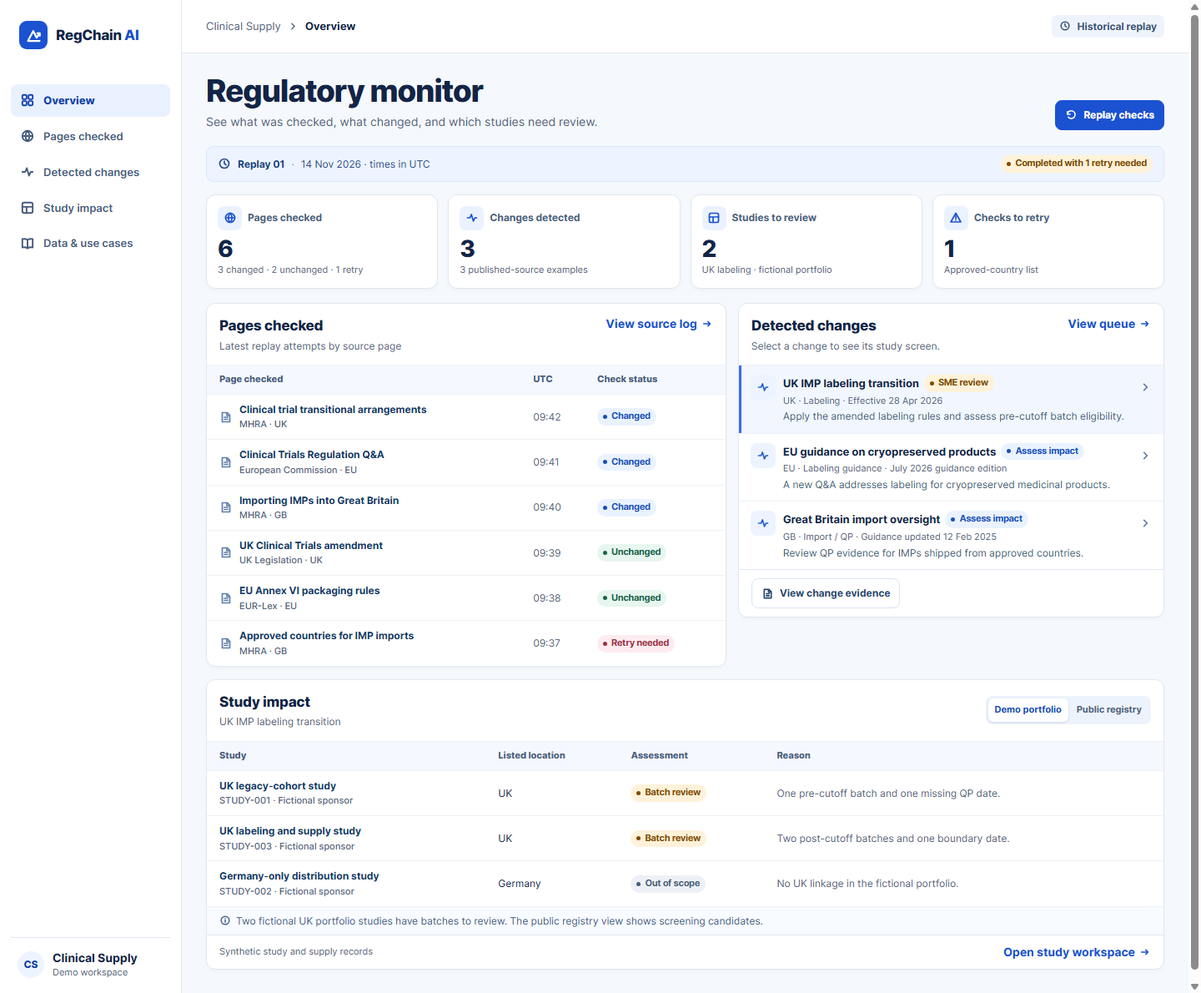
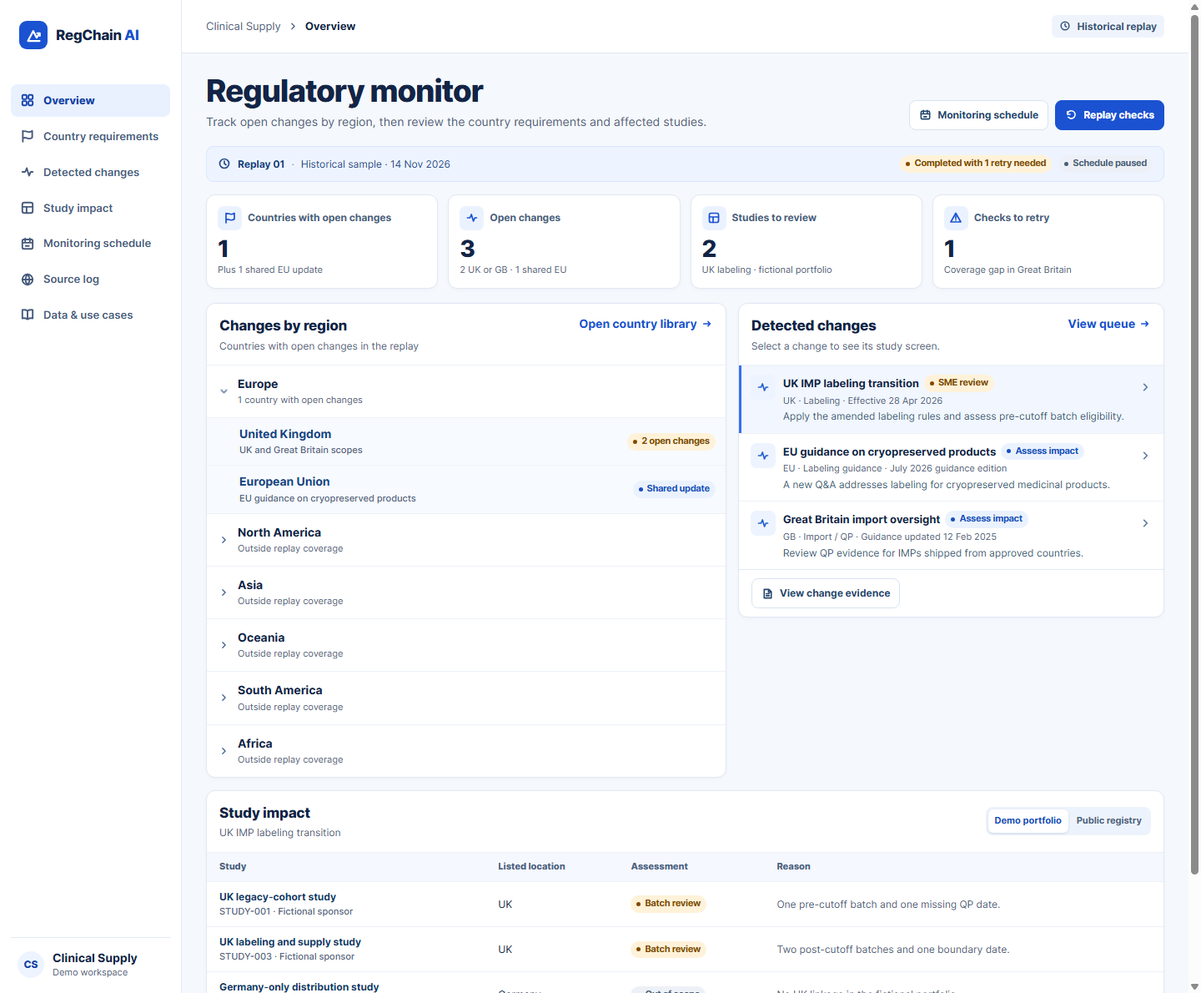
Add country requirements and monitoring schedule
Group open changes by continent, add a source-linked country requirements library, and add configurable scheduling for the browser replay. Update the research notes and dashboard screenshot.

diff --git a/RegChain-AI-Dashboard.html b/RegChain-AI-Dashboard.html
@@ -25,6 +25,8 @@ svg{width:18px;height:18px;fill:none;stroke:currentColor;stroke-width:1.7;stroke
 @media(max-width:1120px){.shell{grid-template-columns:171px minmax(0,1fr)}.content,.top{padding-left:19px;padding-right:19px}.table-wrap .hide-narrow{display:none}}
 @media(max-width:900px){.shell{display:block}.rail{position:static;height:auto;padding:11px 13px;gap:9px;border-right:0;border-bottom:1px solid var(--line)}.rail nav{display:flex;flex-wrap:wrap}.brand{margin:0;padding:0}.nav{width:auto;padding:7px 8px}.rail-foot{display:none}.layout{grid-template-columns:minmax(0,1fr)}}
 @media(max-width:560px){.content,.top{padding-left:12px;padding-right:12px}.content{padding-top:17px}.top{min-height:54px}.tiles{grid-template-columns:repeat(2,minmax(0,1fr));gap:8px}.tile{padding:9px}.card-head{padding:11px}.card-foot{padding:9px 11px}.resource-grid{grid-template-columns:1fr}.study-tabs{max-width:100%;flex-wrap:wrap}}
+.region-list{display:grid}.region{border-top:1px solid #edf1f7}.region summary{cursor:pointer;list-style:none;display:flex;align-items:center;gap:10px;padding:12px 14px}.region summary::-webkit-details-marker{display:none}.region summary:hover{background:#f5f9ff}.region summary>svg:first-child{width:13px;color:#496795}.region[open] summary>svg:first-child{transform:rotate(90deg)}.region-label{min-width:0;flex:1}.region-label strong,.region-label small{display:block}.region-label small{color:var(--muted);font-size:11px;margin-top:2px}.region-child{display:flex;justify-content:space-between;gap:9px;padding:9px 12px 9px 39px;background:#f7faff;border-top:1px solid #eef2f9;align-items:center}.region-child .badge{flex:none}.country-control{border:0;color:#174485;background:none;padding:0;text-align:left;font-weight:700}.country-control:hover{text-decoration:underline}.country-row{display:flex;gap:10px;align-items:center;padding:11px 13px;width:100%;text-align:left;border:0;border-top:1px solid #edf1f7;background:white;color:var(--ink)}.country-row:hover,.country-row[aria-pressed=true]{background:#edf4ff}.country-row>span:first-child{flex:1}.country-row svg{width:13px;color:#496795}.library-layout{display:grid;grid-template-columns:minmax(230px,.62fr) minmax(0,1.38fr);gap:14px;align-items:start}.library-layout .card-head input{width:100%}.section-label{font-size:12px;color:var(--muted);font-weight:750;padding:8px 13px;background:#f5f8fc;border-top:1px solid var(--line)}.req-list{padding:0 14px 4px}.req-row{width:100%;display:flex;justify-content:space-between;gap:12px;align-items:center;background:white;border:0;border-top:1px solid #edf1f7;padding:11px 0;color:var(--ink);text-align:left}.req-row:hover strong{color:var(--blue);text-decoration:underline}.req-row svg{color:#5b76a0;width:14px}.req-row>span:first-child{flex:1}.req-row strong{display:block}.settings{padding:0 15px 15px}.settings form{display:grid;gap:13px}.settings .field input{width:96px}.settings label.toggle{display:flex;gap:8px;align-items:center;font-weight:700}.settings .inline-note{margin-top:14px;border:0;border-radius:8px;padding:9px}.settings .actions{margin-top:4px}.small-action{font-size:12px;font-weight:700}.nowrap-badge{text-align:right}
+@media(max-width:760px){.library-layout{grid-template-columns:minmax(0,1fr)}}
 @media(prefers-reduced-motion:reduce){*{transition:none!important}}
 </style>
 </head>
@@ -40,7 +42,7 @@ const replayDate = "14 Nov 2026";
 const registryCredit = "ClinicalTrials.gov, U.S. National Library of Medicine · accessed 14 Nov 2026";
 const sources = [
  {id:"transition",title:"Clinical trial transitional arrangements",authority:"MHRA",scope:"UK",type:"Guidance",path:"GOV.UK / Clinical trials / Transition",checked:"09:42",status:"Changed",tone:"blue",edition:"15 Jul 2026",section:"Part 7 labeling transition and finished-IMP QP certification",result:"Compared against the legacy labeling baseline. A conditional transition and the date basis for batch triage are in the reviewed evidence.",url:"https://www.gov.uk/guidance/clinical-trials-for-medicines-clinical-trials-regulations-transitional-arrangements#transitional-arrangements-for-labelling-of-investigational-medicinal-products",change:"uk"},
- {id:"qa",title:"Clinical Trials Regulation Q&A",authority:"European Commission",scope:"EU",type:"Guidance PDF",path:"EudraLex / Volume 10 / July 2026 Q&A",checked:"09:41",status:"Changed",tone:"blue",edition:"July 2026 edition",section:"Revision history and new Q&A 8.4",result:"The July revision history identifies a new question about labeling cryopreserved medicinal products. This is a historical guidance example.",url:"https://health.ec.europa.eu/document/download/4ec3992a-ef9b-41f9-8e34-1dd6d0a479ae_en?filename=mp_ctr_qa_rules.pdf",change:"eu"},
+ {id:"qa",title:"Clinical Trials Regulation Q&A",authority:"European Commission",scope:"EU",type:"Guidance PDF",path:"EudraLex / Volume 10 / CTR Q&A",checked:"09:41",status:"Changed",tone:"blue",edition:"July 2026 change · linked PDF can advance",section:"Q&A 8.4",result:"The July 2026 revision introduced Q&A 8.4 on cryopreserved product labeling. The linked Commission PDF now serves a later edition that retains the question.",url:"https://health.ec.europa.eu/document/download/4ec3992a-ef9b-41f9-8e34-1dd6d0a479ae_en?filename=mp_ctr_qa_rules.pdf",change:"eu"},
  {id:"imports",title:"Importing IMPs into Great Britain",authority:"MHRA",scope:"GB",type:"Guidance",path:"GOV.UK / Importing IMPs / Updated guidance",checked:"09:40",status:"Changed",tone:"blue",edition:"12 Feb 2025",section:"Publication change log and QP certification for approved-country imports",result:"The published update notice describes changes reflecting implementation of the EU Clinical Trials Regulation for EU QP certification.",url:"https://www.gov.uk/government/publications/importing-investigational-medicinal-products-into-great-britain-from-approved-countries",change:"import"},
  {id:"statute",title:"UK Clinical Trials amendment",authority:"UK Legislation",scope:"UK",type:"Statutory instrument",path:"legislation.gov.uk / S.I. 2025/538",checked:"09:39",status:"Unchanged",tone:"green",edition:"2025 instrument",section:"Regulation 32 and inserted Schedule 14 paragraph 6",result:"The replay keeps the same statutory reference on this check. The instrument supplies supporting evidence for the UK labeling case.",url:"https://www.legislation.gov.uk/uksi/2025/538/pdfs/uksi_20250538_en.pdf",change:"uk"},
  {id:"annex",title:"EU Annex VI packaging rules",authority:"EUR-Lex",scope:"EU",type:"Delegated regulation",path:"EUR-Lex / Delegated Regulation 2022/2239",checked:"09:38",status:"Unchanged",tone:"green",edition:"15 Nov 2022 · Official Journal",section:"Annex, entries B.6.2 and B.6.3",result:"The stored comparison is unchanged. The historical amendment is an additional use case for assessing eligible immediate-packaging configurations.",url:"https://eur-lex.europa.eu/eli/reg_del/2022/2239/oj/eng"},
@@ -66,6 +68,26 @@ const resources = [
  {name:"EMA CTIS public portal",text:"EU and EEA trial searches, EU trial numbers and public trial information. Use explicit registry identifiers to link records.",url:"https://www.ema.europa.eu/en/human-regulatory-overview/research-development/clinical-trials-human-medicines/clinical-trials-information-system-ctis"},
  {name:"AACT database",text:"Relational ClinicalTrials.gov data for SQL queries and bulk snapshots. AACT is a mirror of the registry.",url:"https://aact.ctti-clinicaltrials.org/landing"}
 ];
+const regions = ["Europe","North America","Asia","Oceania","South America","Africa"];
+const countries = [
+ {id:"uk",name:"United Kingdom",region:"Europe",changes:["uk","import"]},
+ {id:"de",name:"Germany",region:"Europe",shared:["eu"]},
+ {id:"fr",name:"France",region:"Europe",shared:["eu"]},
+ {id:"us",name:"United States",region:"North America"},
+ {id:"jp",name:"Japan",region:"Asia"},
+ {id:"au",name:"Australia",region:"Oceania"},
+ {id:"br",name:"Brazil",region:"South America"},
+ {id:"za",name:"South Africa",region:"Africa"}
+];
+const topics = ["Labeling & packaging","Import & customs","Release & certification","Storage & distribution","Returns & destruction","Permits & authorizations","Documentation","Controlled products"];
+const requirements = [
+ {id:"uk-label",scope:"UK",country:"uk",topic:topics[0],title:"IMP labeling under amended Part 7",basis:"UK regulation",when:"28 Apr 2026",status:"Example baseline",summary:"Use the amended Part 7 requirements for investigational medicinal products where applicable. Confirm the product and trial scope and any applicable authorization, variation or exception.",locator:"Regulation 32, substituting Part 7",source:"statute",related:"uk"},
+ {id:"uk-transition",scope:"UK",country:"uk",topic:topics[0],title:"Transitional labeling for qualifying batches",basis:"UK regulation with MHRA guidance",when:"28 Apr 2026",status:"Example baseline",summary:"The earlier rules can continue for qualifying batches made before the relevant day, labeled under the old rules and used in their intended old-rules trials. The MHRA guidance uses finished-IMP QP certification as the manufacturing date for this assessment.",locator:"Schedule 14, paragraph 6 and MHRA transition guidance",source:"transition",related:"uk"},
+ {id:"gb-import",scope:"Great Britain",country:"uk",topic:topics[1],title:"Approved-country import oversight",basis:"MHRA guidance",when:"Guidance edition · 12 Feb 2025",status:"Example baseline",summary:"For the approved-country import route, verify the UK import authorization holder and the mechanism for checking certification by a qualified person in an approved country.",locator:"GOV.UK import guidance and approved-country list",source:"imports",related:"import"},
+ {id:"eu-pack",scope:"EU",shared:true,topic:topics[0],title:"Immediate packaging and expiry or retest dates",basis:"EU delegated regulation",when:"In force from 5 Dec 2022",status:"Shared EU baseline",summary:"Annex VI allows the period of use to be omitted from the immediate package in specified configurations. Verify the packaging conditions and the other particulars required by Annex VI.",locator:"Delegated Regulation (EU) 2022/2239, Annex, B.6.2 and B.6.3",source:"annex",related:"eu"},
+ {id:"us-label",scope:"United States",country:"us",topic:topics[0],title:"Investigational new drug labeling",basis:"U.S. federal regulation",when:"Current eCFR section",status:"Example baseline",summary:"21 CFR 312.6 sets the investigational-use statement for immediate packages of investigational new drugs for human use and addresses misleading or unsupported labeling claims. The section also specifies a limited exception process.",locator:"21 CFR § 312.6",url:"https://www.ecfr.gov/current/title-21/chapter-I/subchapter-D/part-312/subpart-A/section-312.6"},
+ {id:"us-import",scope:"United States",country:"us",topic:topics[1],title:"Importing investigational new drugs",basis:"FDA guidance page",when:"See linked FDA source",status:"Example baseline",summary:"FDA describes the IND, U.S. consignee and labeling evidence for imports under an active IND. Check applicability and exemptions against the governing provisions.",locator:"FDA, Importing Investigational New Drugs",url:"https://www.fda.gov/drugs/human-drug-imports/importing-investigational-new-drugs"}
+];
 </script>
 <script id="dashboard-ui">
 "use strict";
@@ -83,9 +105,11 @@ const icons = {
   clock:'<circle cx="8" cy="8" r="5.5"/><path d="M8 5v3l2 1.5"/>',
   retry:'<path d="M3 7a5 5 0 1 1 1 4m-1-7v3.5h3.5"/>',
   alert:'<path d="M8 2.5 14 13H2ZM8 6v3m0 1.8h.01"/>',
-  external:'<path d="M9 3h4v4m0-4L7 9m0-5H3v9h9V9"/>'
+  external:'<path d="M9 3h4v4m0-4L7 9m0-5H3v9h9V9"/>',
+  countries:'<path d="M3 14V2.5m0 1c2-1.5 3.3-.5 5 0 1.8.5 3 .7 5-1v7c-2 1.7-3.2 1.5-5 1-1.7-.5-3-1.5-5 0"/>',
+  schedule:'<rect x="2.5" y="3.5" width="11" height="10" rx="1.5"/><path d="M5.5 2.5v3m5-3v3M2.5 7h11M6 10.5h3.5"/>'
 };
-const navItems = {"overview":"Overview","sources":"Pages checked","changes":"Detected changes","studies":"Study impact","research":"Data & use cases"};
+const navItems = {overview:"Overview",countries:"Country requirements",changes:"Detected changes",studies:"Study impact",schedule:"Monitoring schedule",sources:"Source log",research:"Data & use cases"};
 const byId = id => document.getElementById(id);
 const esc = value => String(value ?? "").replace(/[&<>"']/g,c=>({"&":"&amp;","<":"&lt;",">":"&gt;",'"':"&quot;","'":"&#39;"}[c]));
 const icon = name => '<svg viewBox="0 0 16 16" aria-hidden="true">'+icons[name]+'</svg>';
@@ -98,12 +122,45 @@ let currentChange = "uk";
 let studyView = "portfolio";
 let sourceFilter = "all";
 let sourceSearch = "";
-let replayCount = 1;
+let currentCountry = "uk";
+let countrySearch = "";
+let countryTopic = "all";
+let countryScope = "all";
+const expandedRegions = new Set(countries.filter(country=>country.changes?.length).map(country=>country.region));
+if (changes.some(change=>change.scope==="EU")) expandedRegions.add("Europe");
+const scheduleKey = "regchain-dashboard-schedule-v1";
+const dayMs = 24 * 60 * 60 * 1000;
+const athens = new Intl.DateTimeFormat("en-GB",{dateStyle:"medium",timeStyle:"short",timeZone:"Europe/Athens"});
+let scheduleState = readSchedule();
 let replaying = false;
 let drawerOrigin = null;
 const selectedChange = () => changes.find(change=>change.id===currentChange);
 const filteredStudies = () => studyView === "portfolio" ? studies.filter(study=>study.changes.includes(currentChange)) : publicStudies.filter(study=>study.countries.includes(selectedChange().scope));
 const retryCount = sources.filter(source=>source.status==="Retry needed").length;
+const currentOpenCountries = countries.filter(country=>country.changes?.length);
+
+function readSchedule() {
+  const fallback={enabled:false,days:1,nextAt:null,lastAt:null,lastReason:null,runCount:1};
+  try {
+    const saved=JSON.parse(localStorage.getItem(scheduleKey));
+    if (saved && typeof saved.enabled==="boolean" && Number.isInteger(saved.days) && saved.days>=1 && saved.days<=365 &&
+      Number.isInteger(saved.runCount) && saved.runCount>=1 &&
+      (!saved.enabled || Number.isFinite(saved.nextAt))) return {...fallback,...saved};
+  } catch {}
+  return fallback;
+}
+function storeSchedule() {
+  try {localStorage.setItem(scheduleKey,JSON.stringify(scheduleState));}
+  catch {return false;}
+  return true;
+}
+function cadence(days) {return days===1?"Every day":"Every "+days+" days";}
+function scheduleDate(value) {return value ? athens.format(value)+" Athens time" : "—";}
+function runStatus() {
+  const next=scheduleState.enabled?scheduleDate(scheduleState.nextAt):"Paused";
+  const last=scheduleState.lastAt?scheduleDate(scheduleState.lastAt)+" · "+(scheduleState.lastReason==="scheduled"?"Scheduled replay":"Manual replay"):"Historical sample · "+replayDate;
+  return factlist([["Next demo run",next],["Last run",last],["Source coverage",sources.length+" sample checks · "+retryCount+" retry needed"]]);
+}
 
 function shell() {
   byId("brand-mark").innerHTML=icon("logo");
@@ -122,17 +179,89 @@ function updateRun() {
   }
 }
 function overview() {
-  return heading("Regulatory monitor","See what was checked, what changed, and which studies need review.",'<button id="replay" class="btn primary" type="button" data-act="replay">'+icon("retry")+'Replay checks</button>')+
-    '<div class="runbar"><div class="runbar-left">'+icon("clock")+'<strong>Replay '+String(replayCount).padStart(2,"0")+'</strong><span class="separator">·</span><span>'+replayDate+' · times in UTC</span></div>'+badge("Completed with 1 retry needed","amber")+'</div>'+
+  return heading("Regulatory monitor","Track open changes by region, then review the country requirements and affected studies.",'<div class="actions">'+trigger("Monitoring schedule","nav","schedule","","schedule")+'<button id="replay" class="btn primary" type="button" data-act="replay">'+icon("retry")+'Replay checks</button></div>')+
+    '<div class="runbar"><div class="runbar-left">'+icon("clock")+'<strong>Replay '+String(scheduleState.runCount).padStart(2,"0")+'</strong><span class="separator">·</span><span>'+ (scheduleState.lastAt?"Last replay "+scheduleDate(scheduleState.lastAt):"Historical sample · "+replayDate) +'</span></div><div class="actions">'+badge("Completed with 1 retry needed","amber")+badge(scheduleState.enabled?cadence(scheduleState.days)+" · demo":"Schedule paused",scheduleState.enabled?"blue":"")+'</div></div>'+
     '<div class="tiles" aria-label="Replay summary">'+
-      tile("Pages checked",sources.length,"3 changed · 2 unchanged · 1 retry","sources","sources")+
-      tile("Changes detected",changes.length,"3 published-source examples","changes","changes")+
+      tile("Countries with open changes",currentOpenCountries.length,"Plus 1 shared EU update","countries","regions")+
+      tile("Open changes",changes.length,"2 UK or GB · 1 shared EU","changes","changes")+
       tile("Studies to review",studies.filter(study=>study.status==="Batch review").length,"UK labeling · fictional portfolio","studies","studies")+
-      tile("Checks to retry",retryCount,"Approved-country list","alert","retry-filter")+
-    '</div><div class="layout">'+sourceCard(true)+changeCard(true)+'</div><div class="space" id="study-card">'+studyCard(true)+'</div>';
+      tile("Checks to retry",retryCount,"Coverage gap in Great Britain","alert","retry-filter")+
+    '</div><div class="layout">'+regionCard()+changeCard(true)+'</div><div class="space" id="study-card">'+studyCard(true)+'</div>';
 }
 function tile(title,value,hint,symbol,target) {
   return '<button type="button" class="tile" data-act="metric" data-value="'+target+'"><div class="tile-top"><span class="tile-icon">'+icon(symbol)+'</span>'+title+'</div><strong>'+value+'</strong><small>'+hint+'</small></button>';
+}
+function regionCard() {
+  const content=regions.map(region=>{
+    const local=currentOpenCountries.filter(country=>country.region===region);
+    const shared=region==="Europe"?changes.filter(change=>change.scope==="EU"):[];
+    const summary=local.length ? local.length+(local.length===1?" country":" countries")+" with open changes" : shared.length ? "Shared updates" : "Outside replay coverage";
+    const countryLinks=local.map(country=>'<div class="region-child"><button type="button" class="country-control" data-act="country-page" data-value="'+country.id+'">'+country.name+'<small class="sub">UK and Great Britain scopes</small></button>'+badge(country.changes.length+" open changes","amber")+'</div>').join("");
+    const sharedLinks=shared.map(change=>'<div class="region-child"><button type="button" class="country-control" data-act="change-detail" data-value="'+change.id+'">European Union<small class="sub">'+change.title+'</small></button>'+badge("Shared update","blue")+'</div>').join("");
+    return '<details class="region" data-region="'+region+'"'+(expandedRegions.has(region)?" open":"")+'><summary>'+icon("chevron")+'<span class="region-label"><strong>'+region+'</strong><small>'+summary+'</small></span></summary>'+
+      (countryLinks+sharedLinks || '<div class="region-child"><small>This replay contains no checks for this region.</small></div>')+'</details>';
+  }).join("");
+  return '<section id="regions" class="card" aria-labelledby="regions-title"><div class="card-head"><div><h2 id="regions-title" tabindex="-1">Changes by region</h2><p>Countries with open changes in the replay</p></div>'+quiet("Open country library","countries")+'</div><div class="region-list">'+content+'</div></section>';
+}
+const countryById = id => countries.find(country=>country.id===id);
+const recordsFor = country => requirements.filter(record=>record.country===country.id || (record.shared && country.shared));
+function countryList() {
+  const query=countrySearch.trim().toLowerCase();
+  const groups=regions.map(region=>{
+    const matches=countries.filter(country=>country.region===region && (country.name.toLowerCase().includes(query)||region.toLowerCase().includes(query)));
+    if (!matches.length) return "";
+    return '<div class="section-label">'+region+'</div>'+matches.map(country=>{
+      const count=recordsFor(country).length;
+      const status=country.changes?"Open changes":count?"Sample coverage":"Not assessed";
+      return '<button type="button" class="country-row" data-act="pick-country" data-value="'+country.id+'" aria-pressed="'+(currentCountry===country.id)+'"><span><strong>'+country.name+'</strong><small class="sub">'+status+'</small></span>'+icon("chevron")+'</button>';
+    }).join("");
+  }).join("");
+  return groups||'<p class="nothing">No countries match this search.</p>';
+}
+function options(values,selected) {
+  return values.map(([value,label])=>'<option value="'+esc(value)+'"'+(value===selected?" selected":"")+'>'+esc(label)+'</option>').join("");
+}
+function countryRequirements() {
+  const country=countryById(currentCountry);
+  const all=recordsFor(country);
+  const filtered=all.filter(record=>(countryTopic==="all"||record.topic===countryTopic) && (countryScope==="all"||(countryScope==="shared"?record.shared:!record.shared)));
+  const hasLocal=all.some(record=>!record.shared);
+  const coverage=hasLocal ? "Sample country coverage" : all.length ? "Shared EU coverage only" : "Not assessed";
+  const links=[...(country.changes??[]),...(country.shared??[])].map(id=>{
+    const change=changes.find(item=>item.id===id);
+    return trigger(change.title,"change-detail",id,"","file");
+  });
+  const rows=filtered.map(record=>'<button type="button" class="req-row" data-act="requirement" data-value="'+record.id+'"><span><strong>'+record.title+'</strong><small class="sub">'+record.topic+' · '+record.scope+' · '+record.basis+'</small><small class="sub">'+record.when+'</small></span>'+icon("chevron")+'</button>').join("");
+  const coveredTopics=new Set(all.map(record=>record.topic));
+  const missing=topics.filter(topic=>!coveredTopics.has(topic));
+  return '<section class="card"><div class="card-head"><div><h2>'+country.name+'</h2><p>'+country.region+' · '+all.length+' sample records</p></div>'+badge(coverage,hasLocal?"blue":all.length?"purple":"")+'</div>'+
+    '<div class="card-foot"><div class="filters"><label class="field">Topic<select id="country-topic">'+options([["all","All topics"],...topics.map(topic=>[topic,topic])],countryTopic)+'</select></label><label class="field">Record scope<select id="country-scope">'+options([["all","All scopes"],["local","Country-specific"],["shared","Shared EU"]],countryScope)+'</select></label></div></div>'+
+    (rows?'<div class="req-list">'+rows+'</div>':'<p class="nothing">'+(all.length?"No records match these filters.":"This prototype has no reviewed records for this country.")+'</p>')+
+    '<div class="inline-note">'+icon("info")+'<span>'+esc((all.length && !hasLocal?"Country-specific requirements are not assessed. ":"")+(missing.length?"No sample coverage for "+missing.join(", ")+".":""))+'</span></div>'+
+    (links.length?'<div class="card-foot"><small>Related open changes</small><div class="actions">'+links.join("")+'</div></div>':"")+'</section>';
+}
+function countryLibrary() {
+  return heading("Country requirements","Browse the clinical supply library by country, topic and jurisdiction.")+
+    '<div class="library-layout"><section class="card"><div class="card-head"><label class="field" style="width:100%">Find a country<input id="country-search" type="search" placeholder="Country or continent" value="'+esc(countrySearch)+'"></label></div><div id="country-list">'+countryList()+'</div></section><div id="country-requirements">'+countryRequirements()+'</div></div>';
+}
+function requirementDetail(id) {
+  const record=requirements.find(item=>item.id===id);
+  const source=sources.find(item=>item.id===record.source);
+  drawer("Country requirements library",record.title,badge(record.status,"blue")+
+    factlist([["Jurisdiction",record.scope],["Topic",record.topic],["Source type",record.basis],["Date or edition",record.when],["Source provision",record.locator]])+
+    block("Requirement summary",record.summary)+
+    '<div class="actions">'+openLink("Open official source",source?.url??record.url,"primary")+
+    (record.related?trigger("View related change","change-detail",record.related,"","arrow"):"")+'</div>');
+}
+function monitoringSchedule() {
+  return heading("Monitoring schedule","Set the interval for automatic checks.")+
+    '<div class="layout">'+
+    '<section class="card"><div class="card-head"><div><h2>Automatic checks</h2><p>Browser demo settings</p></div>'+badge(scheduleState.enabled?cadence(scheduleState.days):"Paused",scheduleState.enabled?"blue":"")+'</div><div class="settings">'+
+    '<form id="schedule-form"><label class="toggle"><input type="checkbox" name="enabled"'+(scheduleState.enabled?" checked":"")+'> Enable automatic replay</label><label class="field">Repeat every (days)<input type="number" name="days" min="1" max="365" step="1" value="'+scheduleState.days+'" required></label><div class="actions"><button type="submit" class="btn primary">Save schedule</button><button id="replay" type="button" class="btn" data-act="replay">'+icon("retry")+'Replay checks</button></div></form>'+
+    '<div class="inline-note">'+icon("info")+'<span>Runs the saved sample while this page is open. If a run is missed, the next visit replays it once. Live background monitoring requires a deployed scheduler.</span></div></div></section>'+
+    '<section class="card"><div class="card-head"><div><h2>Run status</h2><p>Schedule times are shown in Athens time.</p></div></div><div class="settings">'+
+    '<div id="run-status">'+runStatus()+'</div>'+
+    '<div class="actions" style="margin-top:12px">'+quiet("View source log","sources")+'</div></div></section></div>';
 }
 function sourceTable(data,compact) {
   if (!data.length) return '<p class="nothing">No pages match these filters.</p>';
@@ -173,6 +302,8 @@ function research() {
 }
 const views = {
   overview,
+  countries:countryLibrary,
+  schedule:monitoringSchedule,
   sources:()=>heading("Pages checked","Inspect each page, its retrieval result, the section compared and the linked evidence.")+sourceCard(false),
   changes:()=>heading("Detected changes","Inspect a change, its source evidence and the inputs needed for study screening.")+changeCard(false),
   studies:()=>heading("Study impact","Explore the portfolio assessment or public matches for the selected change.")+
@@ -229,24 +360,75 @@ function selectChange(id) {
   studyView=studies.some(study=>study.changes.includes(id))?"portfolio":"registry";
 }
 function updateStudies() {byId("study-card").innerHTML=studyCard(page==="overview");}
-function replay() {
+function replay(reason="manual") {
   if (replaying) return;
   replaying=true;updateRun();notify("Replaying the six recorded checks.");
   window.setTimeout(()=>{
-    replayCount++;replaying=false;
-    if(page==="overview"){render();byId("replay").focus();}
+    scheduleState=readScheduleOrCurrent();
+    if (reason==="scheduled" && (!scheduleState.enabled || scheduleState.nextAt>Date.now())) {
+      replaying=false;
+      updateRun();
+      notify();
+      return;
+    }
+    const now=Date.now();
+    scheduleState.runCount++;
+    scheduleState.lastAt=now;
+    scheduleState.lastReason=reason;
+    if (reason==="scheduled") {
+      const interval=scheduleState.days*dayMs;
+      scheduleState.nextAt+= (Math.floor((now-scheduleState.nextAt)/interval)+1)*interval;
+    }
+    storeSchedule();
+    replaying=false;
+    if (page==="overview" || page==="schedule") {
+      const focused=byId("replay")===document.activeElement;
+      if (!byId("schedule-form")?.contains(document.activeElement) || focused) {
+        render();
+        if(focused) byId("replay").focus();
+      } else {
+        byId("run-status").innerHTML=runStatus();
+        updateRun();
+      }
+    }
     notify("Replay complete. Three changes detected. One source check needs retry.");
   },350);
+}
+function readScheduleOrCurrent() {
+  try {return localStorage.getItem(scheduleKey)?readSchedule():scheduleState;}
+  catch {return scheduleState;}
+}
+function checkDue() {
+  scheduleState=readScheduleOrCurrent();
+  if(scheduleState.enabled && scheduleState.nextAt<=Date.now() && !replaying) replay("scheduled");
+}
+function openCountry(id) {
+  currentCountry=id;
+  countrySearch="";
+  countryTopic="all";
+  countryScope="all";
+  navigate("countries");
 }
 const actions={
   nav:to=>{notify();navigate(to);},
   metric:target=>{
     if(target==="retry-filter"){sourceFilter="Retry needed";sourceSearch="";navigate("sources");return;}
-    if(target==="sources"){sourceFilter="all";sourceSearch="";}
+    if(target==="regions"){byId("regions-title").focus();byId("regions").scrollIntoView({block:"nearest"});return;}
     if(target==="studies") selectChange("uk");
     navigate(target);
   },
-  replay,
+  replay:()=>replay(),
+  "country-page":openCountry,
+  "pick-country":id=>{
+    currentCountry=id;
+    countryTopic="all";
+    countryScope="all";
+    byId("country-list").innerHTML=countryList();
+    byId("country-requirements").innerHTML=countryRequirements();
+    const focusTarget=window.matchMedia("(max-width:760px)").matches?byId("country-topic"):byId("country-list").querySelector('[data-value="'+id+'"]');
+    focusTarget.focus();
+  },
+  requirement:requirementDetail,
   "source-detail":sourceDetail,
   "change-detail":changeDetail,
   "study-detail":studyDetail,
@@ -270,6 +452,10 @@ document.addEventListener("input",event=>{
     sourceSearch=event.target.value;
     byId("source-results").innerHTML=sourceTable(sources.filter(tableMatches),false);
   }
+  if (event.target.id==="country-search") {
+    countrySearch=event.target.value;
+    byId("country-list").innerHTML=countryList();
+  }
 });
 document.addEventListener("change",event=>{
   if(event.target.id==="source-filter"){
@@ -281,9 +467,41 @@ document.addEventListener("change",event=>{
     render();
     byId("study-change").focus();
   }
+  if (event.target.id==="country-topic" || event.target.id==="country-scope") {
+    const {id,value}=event.target;
+    if(id==="country-topic") countryTopic=value;
+    else countryScope=value;
+    byId("country-requirements").innerHTML=countryRequirements();
+    byId(id).focus();
+  }
+});
+document.addEventListener("toggle",event=>{
+  const region=event.target.dataset?.region;
+  if (!region || !event.target.isConnected) return;
+  if(event.target.open) expandedRegions.add(region);
+  else expandedRegions.delete(region);
+},true);
+document.addEventListener("submit",event=>{
+  if(event.target.id!=="schedule-form") return;
+  event.preventDefault();
+  scheduleState=readScheduleOrCurrent();
+  const {enabled,days}=event.target.elements;
+  const interval=Number(days.value);
+  if(!Number.isInteger(interval)||interval<1||interval>365) return;
+  const keepNext=scheduleState.enabled && scheduleState.days===interval;
+  scheduleState={...scheduleState,enabled:enabled.checked,days:interval,
+    nextAt:enabled.checked?(keepNext?scheduleState.nextAt:Date.now()+interval*dayMs):null};
+  const saved=storeSchedule();
+  render();
+  byId("schedule-form").querySelector('button[type="submit"]').focus();
+  notify(saved?"Schedule saved.": "Schedule applies to this tab. Browser storage is unavailable.");
+  checkDue();
 });
 byId("drawer").addEventListener("close",()=>{if(drawerOrigin?.isConnected) drawerOrigin.focus();drawerOrigin=null;});
 render();
+checkDue();
+window.setInterval(checkDue,15000);
+document.addEventListener("visibilitychange",()=>{if(!document.hidden) checkDue();});
 </script>
 </body>
 </html>

diff --git a/RegChain-AI-Dashboard-Research.md b/RegChain-AI-Dashboard-Research.md
@@ -26,16 +26,23 @@ Source for the three example records is ClinicalTrials.gov, U.S. National Librar
 | --- | --- | --- |
 | UK IMP labeling transition | The UK amendment replaced Part 7 from 28 April 2026. Schedule 14 preserves the earlier labeling rules in a qualifying cohort, and MHRA explains the finished-IMP QP certification date used in this transition. | Show the statute alongside the guidance. Trace the change to fictional UK studies with pre-cutoff and post-cutoff batches, an exact cutoff case, and a missing QP date. [UK amendment](https://www.legislation.gov.uk/uksi/2025/538/pdfs/uksi_20250538_en.pdf) · [MHRA transition guidance](https://www.gov.uk/guidance/clinical-trials-for-medicines-clinical-trials-regulations-transitional-arrangements#transitional-arrangements-for-labelling-of-investigational-medicinal-products) |
 | Great Britain import oversight | The 12 February 2025 update note identifies a guidance revision reflecting implementation of the EU Clinical Trials Regulation for EU QP certification. | Screen GB sites, then require confirmed origin, destination, import authorization and certification evidence to triage a shipment. Show a simulated retry on the approved-country list and preserve incomplete coverage. [MHRA publication history](https://www.gov.uk/government/publications/importing-investigational-medicinal-products-into-great-britain-from-approved-countries) · [Detailed guidance](https://www.gov.uk/government/publications/importing-investigational-medicinal-products-into-great-britain-from-approved-countries/importing-investigational-medicinal-products-imp-from-countries-on-a-list-to-great-britain) |
-| EU cryopreserved product labeling | The July 2026 EU Clinical Trials Regulation Q&A revision added question 8.4 on labeling cryopreserved medicinal products. The Commission index also links an October 2026 edition. | Replay the July revision as a historical guidance event. Screen EU trial sites and request product presentation, cryopreservation status and label specification before applying it. [July 2026 Q&A](https://health.ec.europa.eu/document/download/4ec3992a-ef9b-41f9-8e34-1dd6d0a479ae_en?filename=mp_ctr_qa_rules.pdf) · [EudraLex Volume 10](https://health.ec.europa.eu/medicinal-products/eudralex/eudralex-volume-10_en) |
+| EU cryopreserved product labeling | The July 2026 EU Clinical Trials Regulation Q&A revision added question 8.4 on labeling cryopreserved medicinal products. The Commission's linked PDF now serves a later edition that retains the question. | Replay the July revision as a historical guidance event. Screen EU trial sites and request product presentation, cryopreservation status and label specification before applying it. [Commission CTR Q&A](https://health.ec.europa.eu/document/download/4ec3992a-ef9b-41f9-8e34-1dd6d0a479ae_en?filename=mp_ctr_qa_rules.pdf) · [EudraLex Volume 10](https://health.ec.europa.eu/medicinal-products/eudralex/eudralex-volume-10_en) |
 | EU immediate-packaging expiry text | Delegated Regulation 2022/2239 amended Annex VI to allow omission of expiry or retest dates from immediate packaging under specified packaging conditions. | Use as a second EU labeling case. Triage against the actual primary and outer packaging configuration and applicable authorization status. [EUR-Lex, Annex VI amendment](https://eur-lex.europa.eu/eli/reg_del/2022/2239/oj/eng) |
 
 Clarivate's ClaRITA provides a comparable workflow for regulatory alerts, impact assessment and action assignment. For RegChain, the product question is whether reviewers can go from an alert to the specific study, batch or shipment evidence in fewer steps. [Clarivate ClaRITA](https://clarivate.com/life-sciences-healthcare/medtech/medtech-regulatory-intelligence/clarivate-regulatory-intelligence-tracking-app-clarita/)
 
 ## Dashboard workflow
 
-1. **Scan overview.** See total attempted pages, source failures, changes detected and fictional studies to review. The statuses describe the simulated historical replay.
-2. **Inspect a source.** Open its URL, last attempt, check status, section compared, source edition and linked change. Filter or search the source log, including the failed-check view.
+1. **Scan changes by region.** Expand Europe to see the UK cases and a separate EU-wide guidance case. Other regions disclose their coverage when expanded. Overview counts describe open items in the historical replay.
+2. **Browse country requirements.** Search the country list, choose a topic or scope, and open a requirement's summary and official reference. Use Source log to inspect individual checks and coverage gaps.
 3. **Inspect a change.** Read the previous reference, the change, the supporting sources and the missing information. Selecting a change updates the study panel.
 4. **Review study impact.** Drill into fictional studies and their batches, or open the public registry candidates and their original records. For the UK labeling case, the separate approval demo remains available from the study workspace.
 
-The dashboard runs locally from a single HTML file with research-backed fixtures. A future live monitor would store each source attempt and its retrieval outcome, run the document comparison, persist the detected change and pass it to the governed impact and approval flow.
+## Country coverage and cadence
+
+- A country library is useful as the standing reference for clinical supply teams. Start with defined topics and jurisdictions that have an assigned reviewer and authoritative sources. For each requirement, record jurisdiction, applicable scope, source provision, effective dates, approval state and version history. Show coverage gaps by topic. NIAID’s ClinRegs provides public country summaries, including investigational products, and can help find primary sources. [NIAID ClinRegs](https://clinregs.niaid.nih.gov/about)
+- Geographic navigation supports quick triage. Regulatory scope stays attached to each change. One EU-level record can be shown with relevant country profiles while remaining a single open item. A country contributes to the national-change count only when it has a change recorded at country level. Review status and legal effective date serve different purposes.
+- Give monitoring administrators a default repeat interval. Use daily checks by default for priority sources, allow slower checks for stable sources, and use alert subscriptions when an authority provides them. Retry failed retrievals on a shorter schedule and keep coverage incomplete until the source is checked successfully. Check attempted and successful timestamps separately. A live adapter can start with the public GOV.UK Content API for approved GOV.UK pages. [GOV.UK Content API documentation](https://content-api.publishing.service.gov.uk/getting-started.html)
+- Live scheduled checks belong in a deployed worker. Store schedule settings for each workspace, record runs and outcomes, prevent overlapping or duplicate jobs, and route material changes to SME review. Saving a schedule authorizes checks. The country-record approval workflow still governs publication.
+
+The dashboard runs locally from a single HTML file with research-backed fixtures. The schedule persists in browser storage when available. Automatic replay can run while the page is open, or catch up once when it reopens. The browser demo does not perform live source retrieval.
